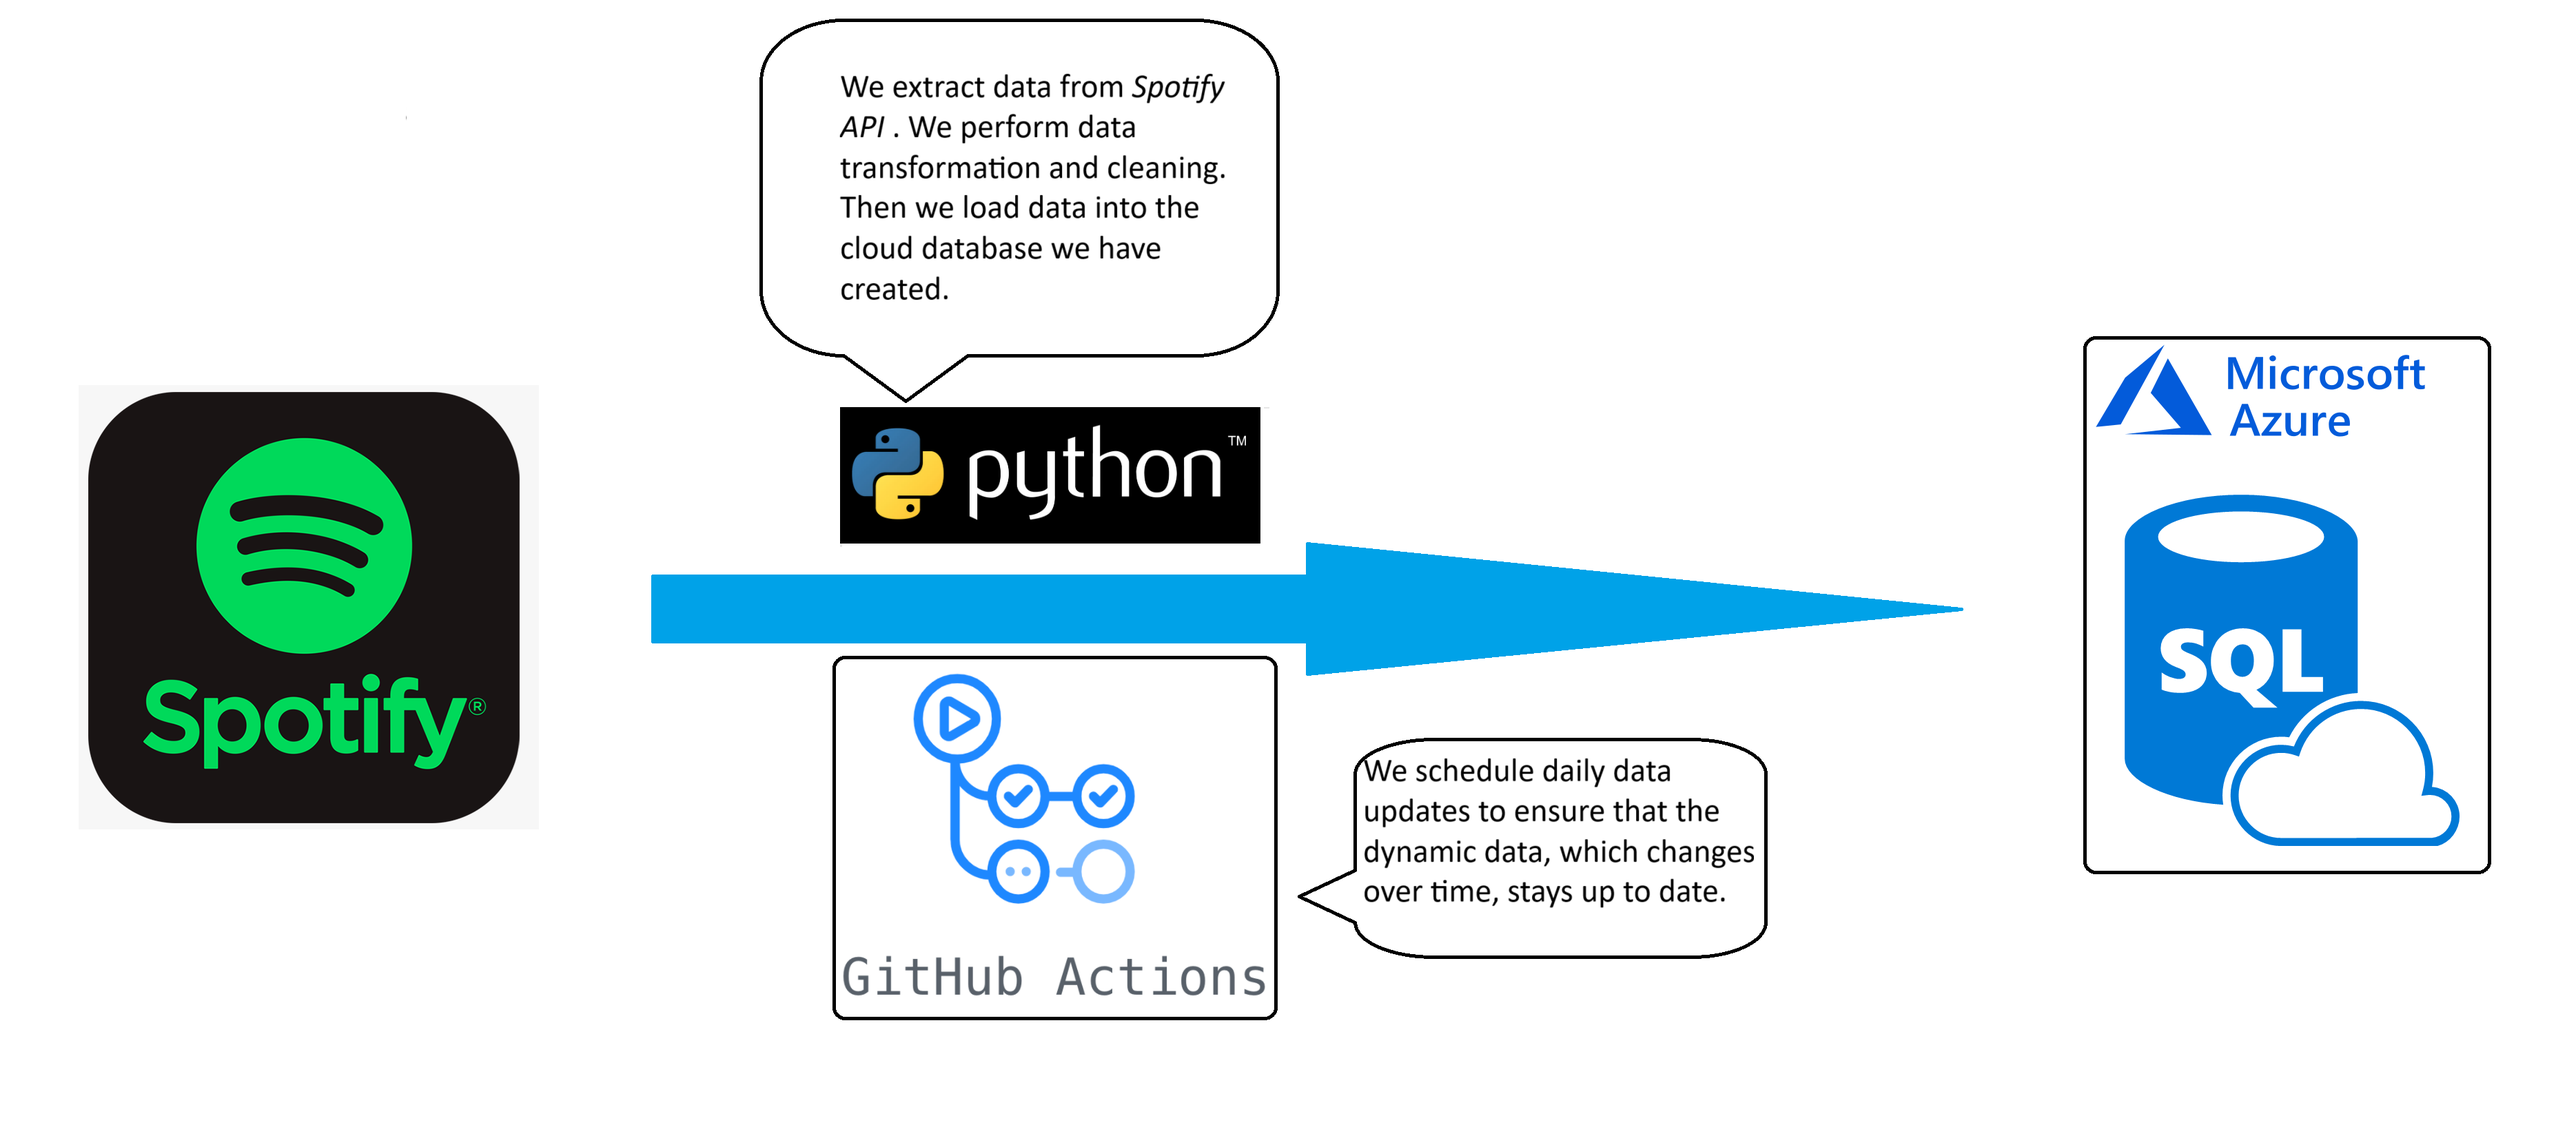
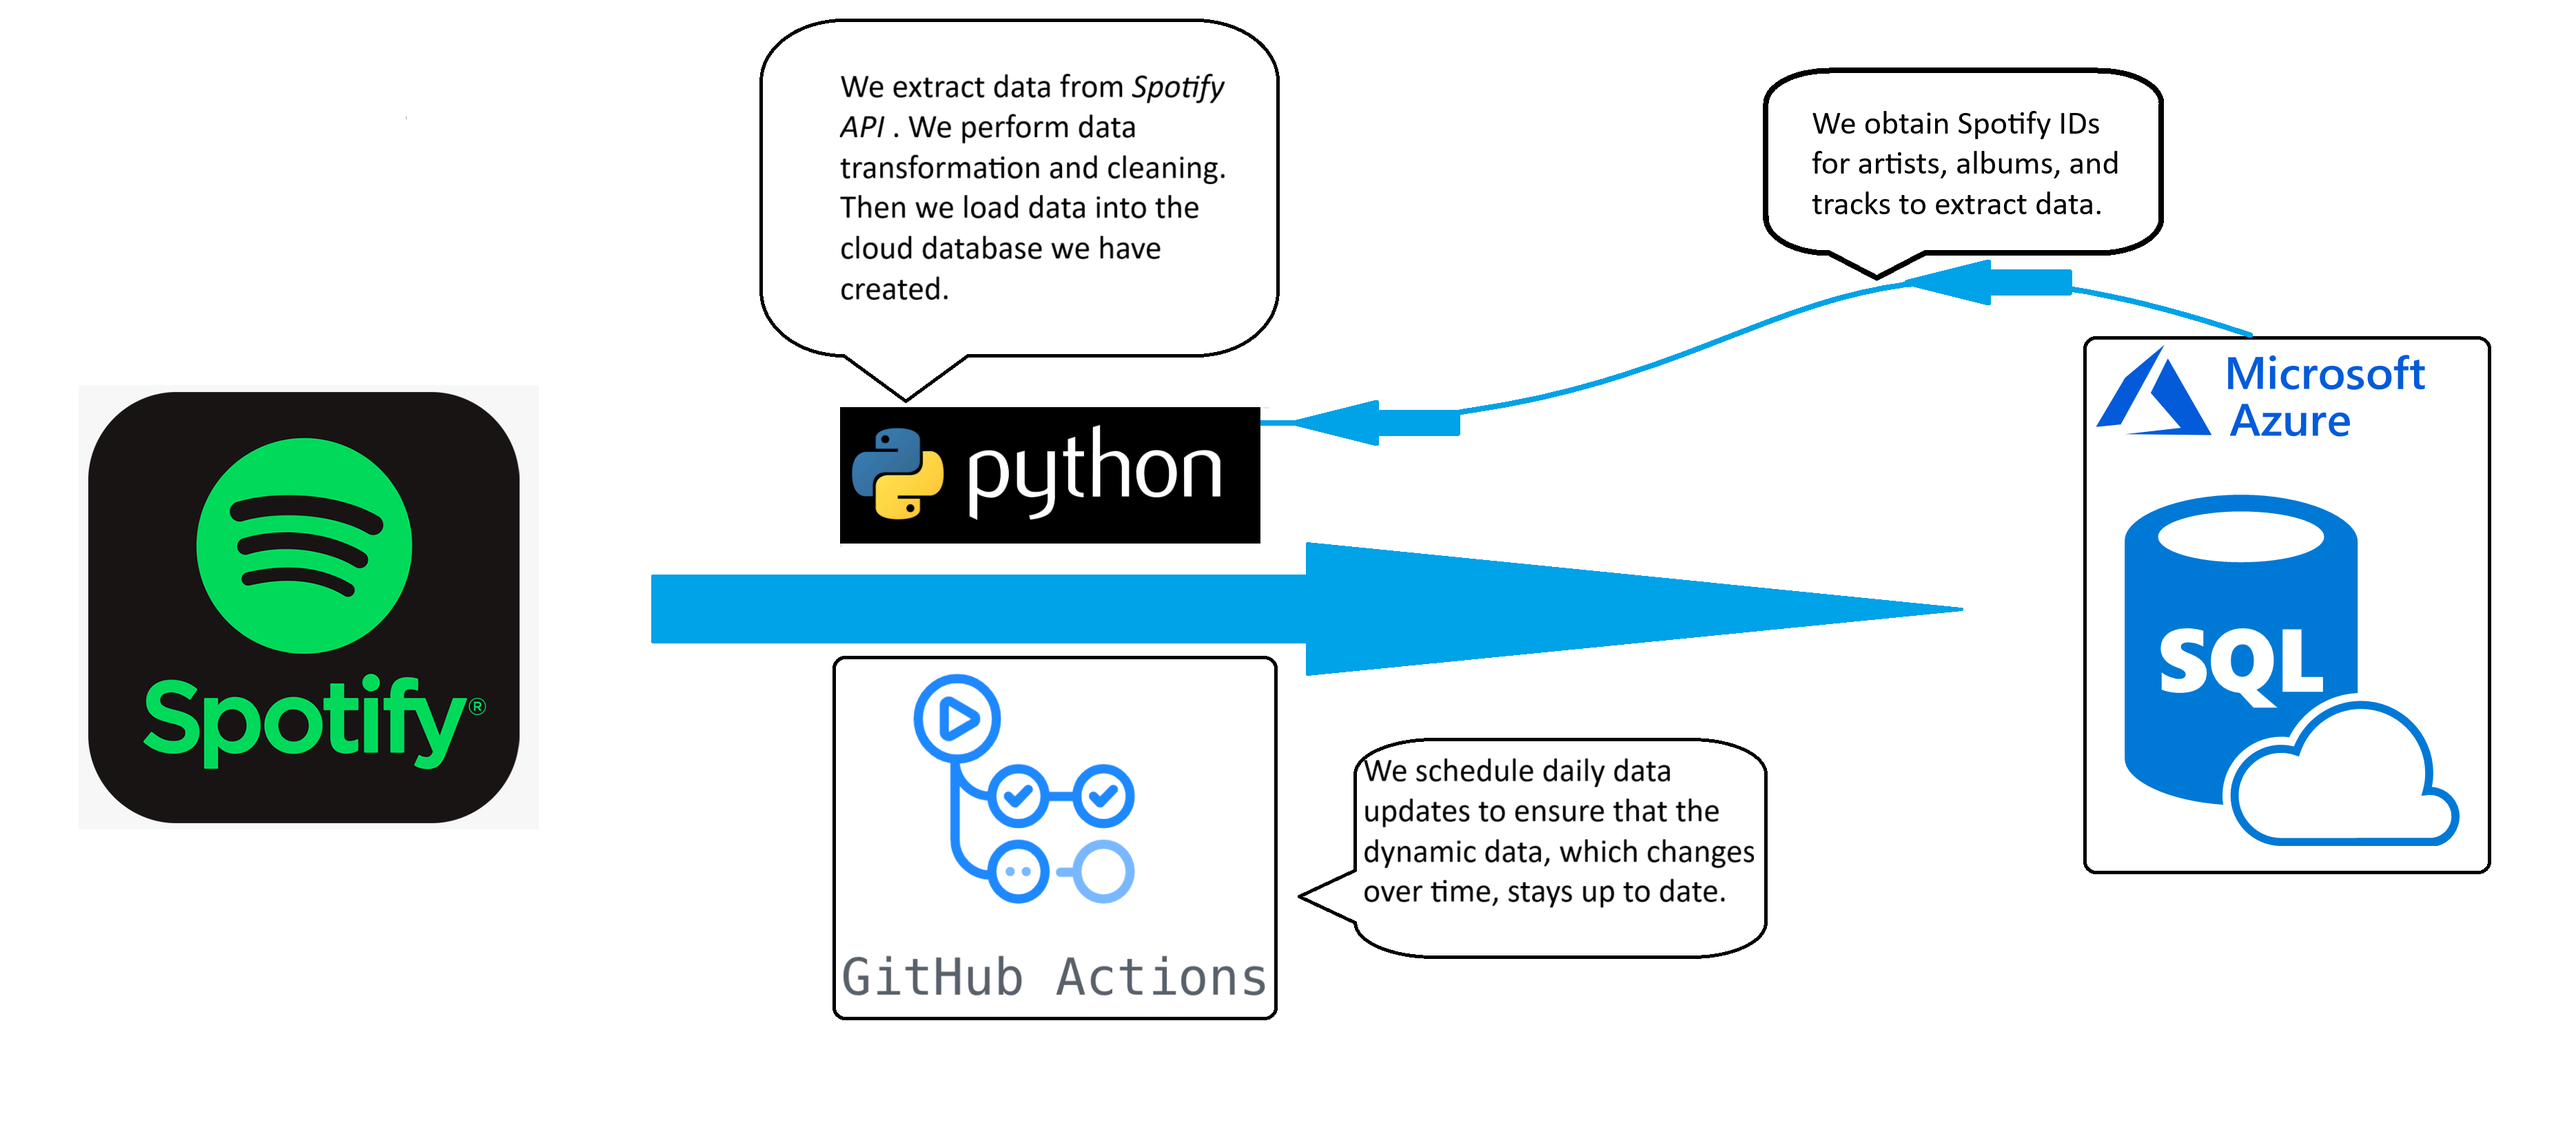
Read me: adjustments

diff --git a/README.md b/README.md
@@ -1,2 +1,17 @@
-# ETL_Spotify_data
+# Extract-Transform-Load: From Spotify to Azure
+## Summary:
+For this project, we created a SQL Server database on the cloud using Microsoft Azure. The objective was to extract data for legendary rock 🎸 artists from the Spotify API, transform/clean the data, and then load it into our cloud database, resulting in a database that is automatically updated daily.
+
+
+### Extract-Transform-Load process:
+
+#### Extract-Transform:
+Data extraction and transformation/cleaning are handled in the `extract_transform_data.py` Python script. In this script we have implemented functions that extract artist data from Spotify API given a list of artist names. Then they get every album and track for each artist. Also, using suitable regular expressions they keep only original albums and tracks by removing live, demo, deluxe versions. We end up with a single function `get_static_tables` at the end of the script  that extracts and transforms/cleans every static data table.
+
+#### Load:
+We created the database tables and also load the static (time independent) data by running the Python script `create_DB_load_static_data.py` once. At this stage, we connected Python to our database to execute SQL queries for creating our tables.Then, we called `get_static_tables` function we mentioned earlier to get the static tables and finaly loaded them into our database using `pandas`.
+
+For dynamic data, such as artist/album/track popularity, we have scheduled daily database updates by executing the `main.py` Python script with GitHub Actions. This Python script manages the ETL process for the dynamic data tables every day and writes to the `status.log` to indicate whether the code execution was successful. This ETL process is illustrated in the image that follows.
+
+
 ![Alt Text](images/ETL.png)
